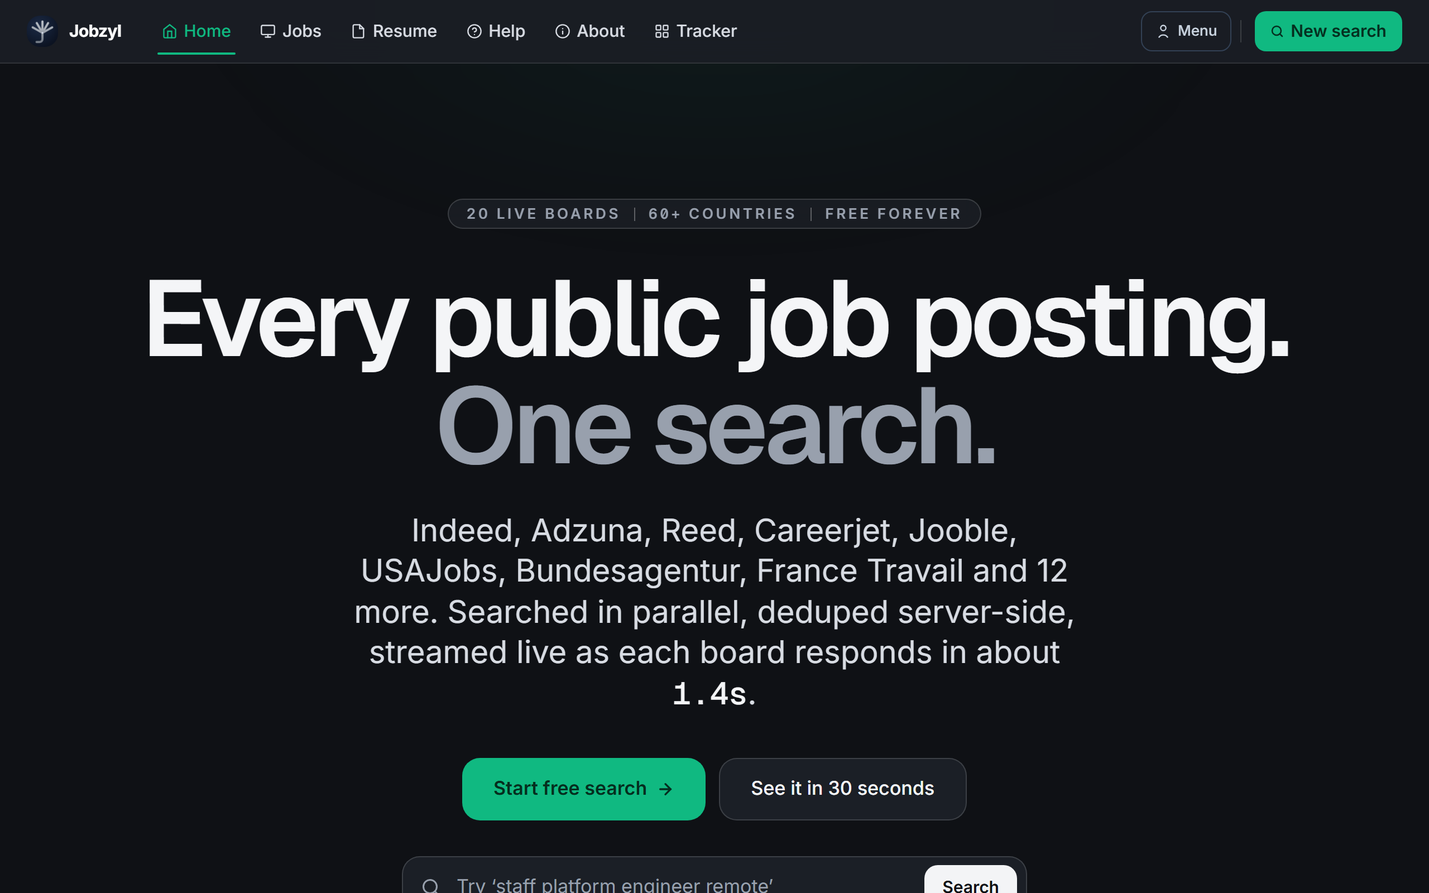
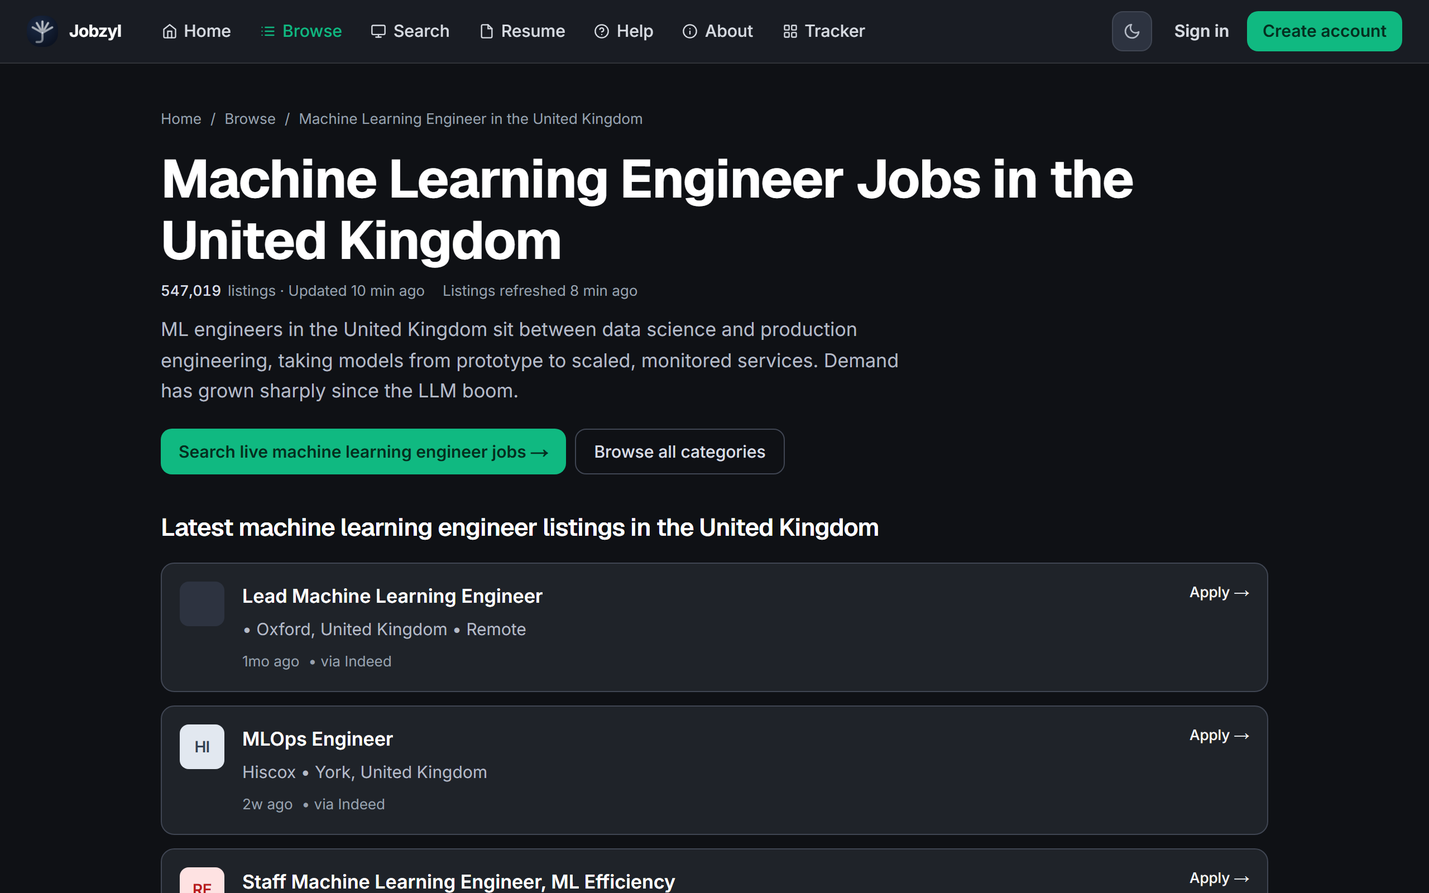
fix the reported bugs and tighten the reading experience
Two real bugs, both root-caused rather than patched.

The voice-agent "REDUCTION" callout appeared to fly in from the top left.
The group carried both transform="translate(300, 380)" and .pv-pop, and
pvPop animates the CSS transform property, which always beats the SVG
transform attribute. So for the whole animation the callout rendered at the
SVG origin and then snapped into place. The translate now lives on an
un-animated parent, which is how every other pv-pop group in the repo
already worked. Measured after the fix: 51px horizontal drift, which is
just the scale about its own centre, and 1px vertical.

FinLaw-UK and DiabetesSense had githubUrl in PROJECTS but empty links in
case-studies.ts, so their case-study pages showed no repo link at all.
Populated. Jobzyl and the voice agent have no public source - a commercial
product and client work - so they get a dashed "source not public" chip
instead. With four of six linking a repo, a silent gap read as an oversight
rather than a fact about the work. The voice agent is still deliberately not
linked to VoiceFlow; they are different codebases.

The home page read like a wall of book text because max-w-2xl is 42rem and
the reading column is 38.9rem, so it never clamped anything - body copy ran
95 to 105 characters a line. Measures are now set in rem, narrower than the
column, so they bite: 544px, about 68 characters. Looser leading, bigger
paragraph gaps, and the first section no longer stacks py-14 on top of the
[…]

diff --git a/lib/case-studies.ts b/lib/case-studies.ts
@@ -12,7 +12,7 @@ export const CASE_STUDIES: Record<string, CaseStudy> = {
       "Compliance teams thread citations by hand across the FCA Handbook, the PRA Rulebook and MiFID II, and a plain LLM answers confidently without showing which rule it relied on.",
     delivers:
       "A retrieval pipeline where a Neo4j graph validates every citation and flags uncited rules, scored on a 110-item regulatory benchmark: 0.82 source accuracy, 0.81 citation quality.",
-    links: {},
+    links: { github: "https://github.com/1oNN/finlaw-uk" },
     problem: [
       "UK financial regulation is a moving target. The FCA Handbook alone runs to thousands of pages, cross-referenced with MiFID II, the PRA Rulebook, and binding technical standards. Compliance teams burn hours threading citations across documents, and naive LLM lookups hallucinate confidently in exactly the places that matter most.",
       "Off-the-shelf RAG fails here for two reasons. Dense retrieval surfaces semantically similar passages but misses the regulatory entity graph - a single rule is meaningful only in the context of its parent chapter, the obligated entities, and the cross-references it triggers. And without faithfulness evaluation, you can't tell a polished answer from a hallucinated one.",
@@ -65,6 +65,9 @@ export const CASE_STUDIES: Record<string, CaseStudy> = {
     delivers:
       "1.1s mean call latency, a 54% cut, with no horizontal scaling and no change to the model - the win came out of profiling, not architecture.",
     links: {},
+    // Outlyst client work. Not the same codebase as VoiceFlow, which is a
+    // separate open-source Retell call exporter - do not link that here.
+    sourceNote: "Client work, source not public",
     problem: [
       "A voice agent's quality is dominated by latency. A 2.4-second response feels like a bad cell connection; under 1.2 seconds it feels human enough that the prospect stays on the call. The Outlyst voice agent was clearing 2.4s on warm calls, and response times spiked unpredictably under load.",
       "The hard part is that Retell AI handles speech recognition and TTS - the backend just answers structured tool calls - but the round-trip from ASR through inference and back is dominated by what we do in those middle hundreds of milliseconds. Profiling, not architecture redesign, was the actual problem.",
@@ -115,7 +118,7 @@ export const CASE_STUDIES: Record<string, CaseStudy> = {
       "A diabetes classifier can hit high accuracy and still be useless: a clinician who cannot see why a patient was flagged will not act on the score.",
     delivers:
       "An 11-model benchmark on the 253,680-record CDC BRFSS 2015 dataset, won by Random Forest at 93% accuracy and strongest on ROC-AUC and sensitivity, served as a lab-free 19-question screening app with the risk drivers shown alongside the score.",
-    links: {},
+    links: { github: "https://github.com/1oNN/diabetes-app" },
     problem: [
       "Clinical prediction models live or die by interpretability. A black-box classifier can hit 95% accuracy and still be useless if a clinician can't see why a particular patient was flagged. Diabetes risk already has good baseline accuracy from logistic regression and tree ensembles, so the real research question wasn't 'can we predict?' but 'can we predict and explain in a way clinicians will actually trust?'",
       "Adoption literature on clinical ML is consistent: when clinicians can't trace a prediction back to features they recognise, they reject the tool - even when the tool is more accurate than their own judgement. The interpretability layer isn't optional polish; it's the load-bearing part.",
@@ -270,6 +273,7 @@ export const CASE_STUDIES: Record<string, CaseStudy> = {
     delivers:
       "One search across 20 live boards in 60+ countries with first results in about 1.4s, ATS scoring that runs in the browser, and a Kanban tracker for everything applied to.",
     links: { live: "https://jobzyl.com" },
+    sourceNote: "Commercial product, source not public",
     problem: [
       "Job search across the major boards is a full-time data-collection job before it's a job-search activity. Each platform has different filters, different update cadences, and different opacity around how its ATS scoring works against your CV.",
       "The interesting full-stack problem isn't fetching listings - it's making a multi-tenant aggregator that fans out live over a warm cache, with row-level security, live progress streaming, and ATS scoring that runs client-side: the CV is only sent to the server if the user chooses to save it to their account, where it is encrypted at rest.",

diff --git a/components/sections/HomeWriting.tsx b/components/sections/HomeWriting.tsx
@@ -3,11 +3,7 @@ import { FiArrowRight } from "react-icons/fi";
 import SectionHeader from "@/components/ui/SectionHeader";
 import { getAllPosts } from "@/lib/blog-db";
 import { readingTime } from "@/lib/reading-time";
-
-const TYPE_LABEL = {
-  "case-study": "Deep dive",
-  blog: "Note",
-} as const;
+import { POST_TYPE_LABEL, postTypeColor } from "@/lib/post-labels";
 
 function formatDate(iso: string): string {
   return new Date(iso).toLocaleDateString("en-GB", { month: "short", year: "numeric" });
@@ -35,8 +31,7 @@ export default async function HomeWriting() {
 
         <ul className="mt-6 divide-y divide-[var(--border)]">
           {posts.map((post) => {
-            const isDeepDive = post.type === "case-study";
-            const typeColor = isDeepDive ? "var(--accent-secondary)" : "var(--accent)";
+            const typeColor = postTypeColor(post.type);
             return (
               <li key={post.id}>
                 <Link
@@ -47,11 +42,21 @@ export default async function HomeWriting() {
                     aria-hidden="true"
                     className="absolute bottom-7 left-0 top-7 w-0.5 origin-center scale-y-0 rounded-full bg-[var(--accent)] transition-transform duration-200 group-hover:scale-y-100 group-focus-visible:scale-y-100"
                   />
-                  <span
-                    className="font-mono text-[10px] font-semibold uppercase tracking-widest"
-                    style={{ color: typeColor }}
-                  >
-                    {TYPE_LABEL[post.type]}
+                  {/* Pill, not bare mono text. The label used to look identical
+                      to the category eyebrow on the project rows above, so
+                      "Note" read as a section heading rather than a thing you
+                      could click through to. */}
+                  <span className="flex items-start">
+                    <span
+                      className="inline-flex items-center rounded-full px-2.5 py-1 font-mono text-[10px] font-semibold uppercase tracking-widest"
+                      style={{
+                        color: typeColor,
+                        backgroundColor: `color-mix(in srgb, ${typeColor} 10%, transparent)`,
+                        border: `1px solid color-mix(in srgb, ${typeColor} 25%, transparent)`,
+                      }}
+                    >
+                      {POST_TYPE_LABEL[post.type]}
+                    </span>
                   </span>
                   <div className="mt-2 sm:mt-0">
                     <h3 className="font-display text-xl font-medium leading-snug text-[var(--text-primary)] transition duration-200 group-hover:translate-x-1 group-hover:text-[var(--accent)] group-focus-visible:translate-x-1 group-focus-visible:text-[var(--accent)]">
@@ -63,7 +68,7 @@ export default async function HomeWriting() {
                         ↗
                       </span>
                     </h3>
-                    <p className="mt-1.5 text-sm leading-relaxed text-[var(--text-secondary)]">
+                    <p className="mt-1.5 max-w-[32rem] text-sm leading-[1.7] text-[var(--text-secondary)]">
                       {post.excerpt}
                     </p>
                     <p className="mt-3 font-mono text-[11px] text-[var(--text-muted)]">

diff --git a/components/project-visuals/ResultsCharts.tsx b/components/project-visuals/ResultsCharts.tsx
@@ -357,8 +357,12 @@ export function VoiceAgentResults({ accent, className }: Props) {
         <text x={40} y={87} fontFamily="ui-sans-serif, Inter, system-ui" fontSize="13" fontWeight="600" fill={text}>
           Before
         </text>
-        <rect x={barX} y={70} width={2400 * barScale} height="26" rx="3" className="pv-grow-r" fill={surface} stroke={border} strokeWidth="1" style={{ animationDelay: "0.1s" }} />
-        <text x={barX + 2400 * barScale + 8} y={88} fontFamily={MONO} fontSize="11" fontWeight="600" fill={muted} className="pv-fade" style={{ animationDelay: "0.6s" }}>
+        {/* Each bar draws for as long as the call it represents: 2.4s here,
+            1.1s below. The comparison is then something you feel rather than
+            read - the "before" bar is still crawling when the "after" one has
+            already finished. Delays are set so both start together. */}
+        <rect x={barX} y={70} width={2400 * barScale} height="26" rx="3" className="pv-grow-r" fill={surface} stroke={border} strokeWidth="1" style={{ animationDelay: "0.2s", animationDuration: "2.4s", animationTimingFunction: "linear" }} />
+        <text x={barX + 2400 * barScale + 8} y={88} fontFamily={MONO} fontSize="11" fontWeight="600" fill={muted} className="pv-fade" style={{ animationDelay: "2.6s" }}>
           2.4s
         </text>
       </g>
@@ -367,8 +371,8 @@ export function VoiceAgentResults({ accent, className }: Props) {
         <text x={40} y={147} fontFamily="ui-sans-serif, Inter, system-ui" fontSize="13" fontWeight="600" fill={accent}>
           After
         </text>
-        <rect x={barX} y={130} width={1100 * barScale} height="26" rx="3" className="pv-grow-r" fill={accent} fillOpacity="0.85" style={{ animationDelay: "0.5s", animationDuration: "1s" }} />
-        <text x={barX + 1100 * barScale + 8} y={148} fontFamily={MONO} fontSize="11" fontWeight="700" fill={accent} className="pv-fade" style={{ animationDelay: "1.4s" }}>
+        <rect x={barX} y={130} width={1100 * barScale} height="26" rx="3" className="pv-grow-r" fill={accent} fillOpacity="0.85" style={{ animationDelay: "0.2s", animationDuration: "1.1s", animationTimingFunction: "linear" }} />
+        <text x={barX + 1100 * barScale + 8} y={148} fontFamily={MONO} fontSize="11" fontWeight="700" fill={accent} className="pv-fade" style={{ animationDelay: "1.3s" }}>
           1.1s · −54%
         </text>
       </g>

diff --git a/components/case-study/CaseStudyLayout.tsx b/components/case-study/CaseStudyLayout.tsx
@@ -10,7 +10,7 @@ import {
   FiExternalLink,
   FiFileText,
   FiBookOpen,
-  FiMessageCircle,
+  FiLock,
 } from "react-icons/fi";
 import type { Project, CaseStudy } from "@/types";
 import { getProjectVisuals } from "@/components/project-visuals";
@@ -19,6 +19,7 @@ import CountUp from "@/components/interactive/CountUp";
 import { getCaseStudy } from "@/lib/case-studies";
 import { PROJECTS } from "@/lib/constants";
 import ListingCard from "./ListingCard";
+import AskAgentChip from "./AskAgentChip";
 import SectionHeader from "@/components/ui/SectionHeader";
 
 interface Props {
@@ -182,13 +183,19 @@ export default function CaseStudyLayout({ project, caseStudy }: Props) {
                     </a>
                   );
                 })}
-                <Link
-                  href="/#agent"
-                  className="inline-flex items-center gap-1.5 rounded-md border border-[var(--border)] bg-[var(--surface-elevated)] px-3 py-1.5 text-xs font-medium text-[var(--text-secondary)] transition-colors hover:border-[var(--text-secondary)] hover:text-[var(--text-primary)] focus-visible:border-[var(--text-secondary)] focus-visible:text-[var(--text-primary)]"
-                >
-                  <FiMessageCircle size={13} />
-                  Ask my agent about this project
-                </Link>
+                {/* Stated, not omitted: with four of six projects linking a
+                    repo, a silent gap reads as an oversight rather than a fact
+                    about the work. */}
+                {caseStudy.sourceNote && (
+                  <span
+                    className="inline-flex items-center gap-1.5 rounded-md border border-dashed border-[var(--border)] px-3 py-1.5 text-xs font-medium text-[var(--text-muted)]"
+                    style={{ backgroundColor: "transparent" }}
+                  >
+                    <FiLock size={12} />
+                    {caseStudy.sourceNote}
+                  </span>
+                )}
+                <AskAgentChip />
             </div>
           </div>
         </section>

diff --git a/components/project-visuals/VoiceAgentVisuals.tsx b/components/project-visuals/VoiceAgentVisuals.tsx
@@ -108,12 +108,22 @@ export function VoiceAgentHero({ accent, className }: Props) {
           stat reading "2,100+ sessions"; 2,100+ is call volume over the
           contract, not simultaneous load, and it now lives in the headline
           metrics panel as "Calls handled". */}
-      <g transform="translate(300, 380)" className="pv-pop pv-hover-group" style={{ animationDelay: "1.8s" }}>
-        <rect width="200" height="64" rx="6" ry="6" className="pv-node" fill={accent} fillOpacity="0.12" stroke={accent} strokeWidth="1.25" />
-        <text x="16" y="26" fontFamily="ui-monospace, 'JetBrains Mono', monospace" fontSize="9" fill={muted} letterSpacing="1.5">REDUCTION</text>
-        <text x="16" y="52" fontFamily="ui-sans-serif, Inter, system-ui" fontSize="22" fontWeight="700" fill={accent}>
-          −54% · 1.3s
-        </text>
+      {/* The translate MUST live on an outer group that is not animated.
+          pvPop animates the CSS `transform` property, and a CSS transform
+          always beats the SVG `transform` attribute, so putting both on one
+          element made the callout render at the SVG origin for the whole
+          animation and then snap 300/380 into place - it read as flying in
+          from the top left. Every other pv-pop group in the repo positions
+          its children with x/y instead, which is why this was the only one
+          affected. */}
+      <g transform="translate(300, 380)">
+        <g className="pv-pop pv-hover-group" style={{ animationDelay: "1.8s" }}>
+          <rect width="200" height="64" rx="6" ry="6" className="pv-node" fill={accent} fillOpacity="0.12" stroke={accent} strokeWidth="1.25" />
+          <text x="16" y="26" fontFamily="ui-monospace, 'JetBrains Mono', monospace" fontSize="9" fill={muted} letterSpacing="1.5">REDUCTION</text>
+          <text x="16" y="52" fontFamily="ui-sans-serif, Inter, system-ui" fontSize="22" fontWeight="700" fill={accent}>
+            −54% · 1.3s
+          </text>
+        </g>
       </g>
     </svg>
   );

diff --git a/components/project-visuals/JobzylVisuals.tsx b/components/project-visuals/JobzylVisuals.tsx
@@ -9,18 +9,28 @@ interface Props {
   className?: string;
 }
 
-// Real screenshots of the live product (jobzyl.com, Aug 2026). Deliberately not a
-// mockup: the previous hand-drawn dashboard invented job rows, which read as
-// fabricated placements. The live hero also states the case-study numbers
-// (20 live boards, 60+ countries, ~1.4s streaming) on the record.
+// Real screenshots of the live product showing REAL LISTINGS (jobzyl.com
+// /jobs/machine-learning-engineer/united-kingdom, Aug 2026). This replaced a
+// capture of the marketing landing page, which sold the product rather than
+// showing it working.
+//
+// Captured from a public category page on purpose. The in-app search sits behind
+// a free-account gate, and jobzyl.com's own marketing screenshot carries the
+// disclaimer "the listings shown are samples with invented employers, not live
+// postings" - so that one can never ship here. The category pages are the only
+// surface with real employers, real dates and real source attribution and no
+// login. Every row in these captures is a genuine posting.
 //
 // Two captures, one per theme, toggled with CSS rather than a `useTheme` hook:
 // this stays a server component and the correct image is right on first paint,
 // with no flash of the wrong one during hydration. Both are identically framed
 // at 1280x800 @2x with the consent banner dismissed - reshoot both together or
 // the light/dark switch will jump.
+//
+// These will age: the listings and the "updated N min ago" stamp are frozen at
+// capture time. Reshoot when the dates start reading as stale.
 const HERO_ALT =
-  "Jobzyl homepage: 'Every public job posting. One search.' - 20 live boards across 60+ countries, searched in parallel and streamed in about 1.4s";
+  "Jobzyl showing live Machine Learning Engineer listings in the United Kingdom: 547,019 listings indexed, refreshed minutes earlier, each row naming the employer, location and source board";
 
 export function JobzylHero({ className }: Props) {
   return (

diff --git a/components/interactive/AgentConsole.tsx b/components/interactive/AgentConsole.tsx
@@ -38,19 +38,17 @@ export default function AgentConsole({ onClose }: AgentConsoleProps) {
 
   return (
     <div
-      // `dark` is the whole trick: globals.css defines the navy/green palette as
-      // custom properties under .dark, so every token inside this subtree
-      // resolves to the dark set even when the site is in light mode. That gives
-      // an always-dark console for free - no hardcoded hex literals, which is
-      // what the retired terminal needed (its TERMINAL_ACCENT #34d399 existed
-      // only because --accent would have gone deep blue on a navy panel).
-      className="dark animate-rise fixed inset-x-3 bottom-3 z-50 sm:inset-x-auto sm:bottom-6 sm:right-6 sm:w-full sm:max-w-lg"
+      // Follows the page theme: light console on the light site, navy on the
+      // dark one. It briefly carried a `dark` class to force the navy palette
+      // everywhere, but on the light page that read as a foreign object pasted
+      // over the paper. Inheriting the tokens keeps it part of the same room.
+      className="animate-rise fixed inset-x-3 bottom-3 z-50 sm:inset-x-auto sm:bottom-6 sm:right-6 sm:w-full sm:max-w-lg"
       // Non-modal on purpose: the page stays scrollable and usable behind the
       // console, so focus is deliberately NOT trapped. Escape closes it.
       role="dialog"
       aria-modal="false"
       aria-label="Chat with Hammad's portfolio agent"
-      style={{ filter: "drop-shadow(0 12px 32px rgba(0, 0, 0, 0.45))" }}
+      style={{ filter: "drop-shadow(0 12px 32px rgba(0, 0, 0, 0.28))" }}
     >
       <TerminalAgent onClose={onClose} compact autoFocus />
     </div>

diff --git a/components/sections/About.tsx b/components/sections/About.tsx
@@ -14,7 +14,10 @@ const LANGUAGES = [
 export default function About() {
   return (
     <section id="about" className="hairline-accent">
-      <div className="animate-reveal py-14 sm:py-16">
+      {/* First section on the page, so no top padding: `main` already applies
+          lg:py-24 and stacking py-14 on top of it opened the page with about
+          10rem of dead space before the first word. */}
+      <div className="animate-reveal pb-14 sm:pb-16">
         <SectionHeader
           size="lg"
           statement
@@ -26,7 +29,13 @@ export default function About() {
         <div className="mt-10 space-y-12">
           {/* Bio, languages, CV, education */}
           <div>
-            <div className="space-y-4 text-base leading-relaxed" style={{ color: "var(--text-secondary)" }}>
+            {/* max-w in rem, narrower than the ~38.9rem column, so it actually
+                clamps - see the note in SectionHeader. Looser leading and a
+                bigger paragraph gap give the eye somewhere to rest. */}
+            <div
+              className="max-w-[34rem] space-y-5 text-base leading-[1.75]"
+              style={{ color: "var(--text-secondary)" }}
+            >
               <p>
                 I&apos;m an AI/ML engineer with an MSc in Applied Artificial Intelligence from the
                 University of Bradford. My work sits at the intersection of production systems

diff --git a/components/case-study/AskAgentChip.tsx b/components/case-study/AskAgentChip.tsx
@@ -1,0 +1,27 @@
+"use client";
+
+import { FiMessageCircle } from "react-icons/fi";
+import { OPEN_AGENT_CONSOLE_EVENT } from "@/components/interactive/AgentConsoleLauncher";
+
+/**
+ * Opens the chat console in place, bottom right. This used to be a
+ * `<Link href="/#agent">`, which threw the reader off the case study they were
+ * reading and dropped them on the home page at an anchor - the question they
+ * wanted to ask was about the project they had just left.
+ *
+ * The console listens for this event from `app/layout.tsx`, so it works on every
+ * route rather than just the home page.
+ */
+export default function AskAgentChip() {
+  return (
+    <button
+      type="button"
+      onClick={() => window.dispatchEvent(new Event(OPEN_AGENT_CONSOLE_EVENT))}
+      aria-haspopup="dialog"
+      className="inline-flex items-center gap-1.5 rounded-md border border-[var(--border)] bg-[var(--surface-elevated)] px-3 py-1.5 text-xs font-medium text-[var(--text-secondary)] transition-colors hover:border-[var(--text-secondary)] hover:text-[var(--text-primary)] focus-visible:border-[var(--text-secondary)] focus-visible:text-[var(--text-primary)]"
+    >
+      <FiMessageCircle size={13} />
+      Ask my agent about this project
+    </button>
+  );
+}

diff --git a/components/ui/SectionHeader.tsx b/components/ui/SectionHeader.tsx
@@ -40,15 +40,20 @@ export default function SectionHeader({
       </h2>
       {description &&
         (statement ? (
+          // Measures are in rem, not max-w-2xl. The reading column is
+          // lg:w-[54%] of max-w-6xl, about 38.9rem, so max-w-2xl (42rem) was
+          // wider than its own container and never clamped anything: body copy
+          // ran 95-105 characters a line, well past the 60-75 that reads
+          // comfortably. These values are narrower than the column, so they bite.
           <p
-            className="max-w-2xl font-display text-xl font-medium leading-snug sm:text-2xl"
+            className="max-w-[32rem] font-display text-xl font-medium leading-snug sm:text-2xl"
             style={{ color: "var(--text-primary)" }}
           >
             {description}
           </p>
         ) : (
           <p
-            className="max-w-2xl text-base leading-relaxed"
+            className="max-w-[34rem] text-base leading-[1.7]"
             style={{ color: "var(--text-secondary)" }}
           >
             {description}

diff --git a/lib/post-labels.ts b/lib/post-labels.ts
@@ -1,0 +1,25 @@
+import type { BlogPost } from "@/types";
+
+/**
+ * One vocabulary for post types, shared by every surface.
+ *
+ * These labels had drifted into four different words for the same thing:
+ * `type: "blog"` rendered as "Note" on the home page, "Posts" in the blog
+ * filter nav, "Post" on the cards and "Writing" on the OG image. A reader
+ * moving between them could not tell whether they were different categories.
+ */
+export const POST_TYPE_LABEL: Record<BlogPost["type"], string> = {
+  "case-study": "Deep dive",
+  blog: "Note",
+};
+
+/** Plural form, for filter nav and counts. */
+export const POST_TYPE_LABEL_PLURAL: Record<BlogPost["type"], string> = {
+  "case-study": "Deep dives",
+  blog: "Notes",
+};
+
+/** Deep dives take the secondary accent so the two types are told apart at a glance. */
+export function postTypeColor(type: BlogPost["type"]): string {
+  return type === "case-study" ? "var(--accent-secondary)" : "var(--accent)";
+}

diff --git a/app/blog/[slug]/page.tsx b/app/blog/[slug]/page.tsx
@@ -7,6 +7,7 @@ import { FiArrowLeft, FiArrowRight, FiArrowUp } from "react-icons/fi";
 import { getAllPosts, getPostBySlug } from "@/lib/blog-db";
 import { parseMarkdownDoc } from "@/lib/markdown";
 import { readingTime } from "@/lib/reading-time";
+import { POST_TYPE_LABEL } from "@/lib/post-labels";
 import TableOfContents from "@/components/blog/TableOfContents";
 import CopyLink from "@/components/blog/CopyLink";
 import Footer from "@/components/layout/Footer";
@@ -146,7 +147,7 @@ export default async function BlogPostPage({ params }: Props) {
                 border: `1px solid color-mix(in srgb, ${typeColor} 25%, transparent)`,
               }}
             >
-              {isDeepDive ? "Deep dive" : "Post"}
+              {POST_TYPE_LABEL[post.type]}
             </span>
             <span className="font-mono text-[11px] text-[var(--text-muted)]">
               {formatDate(post.createdAt)} · {mins} min read
